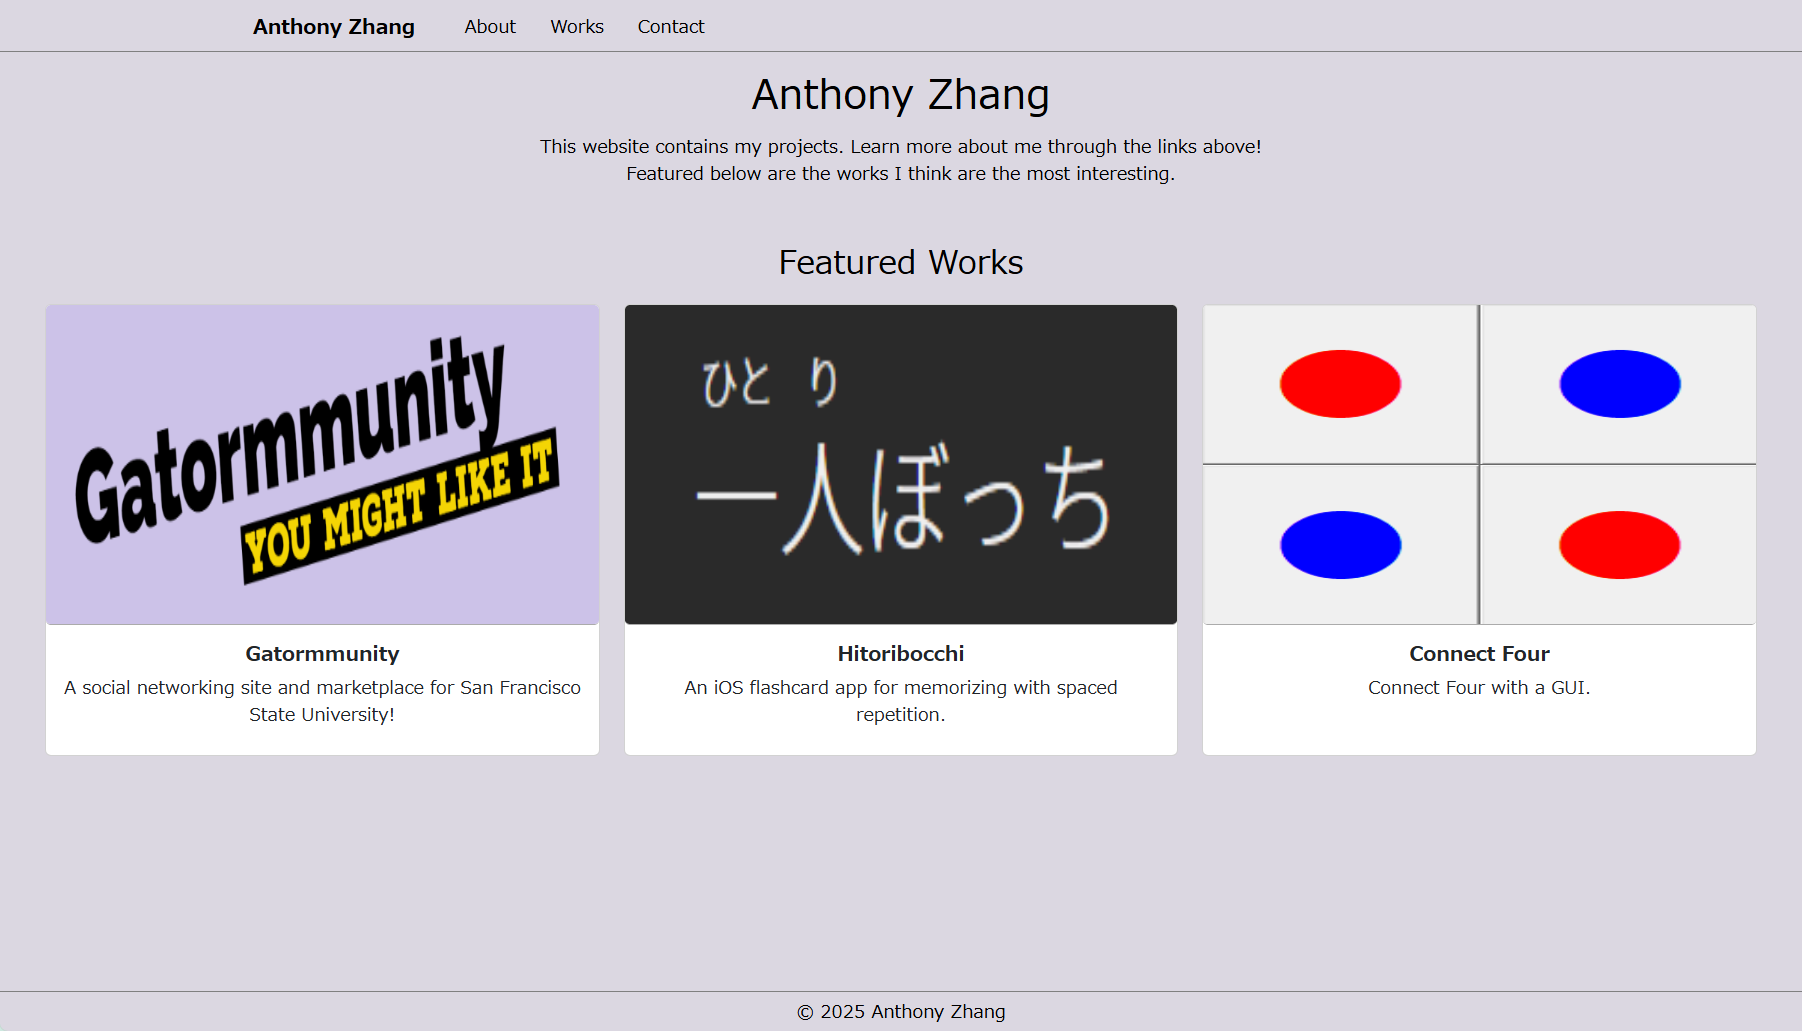
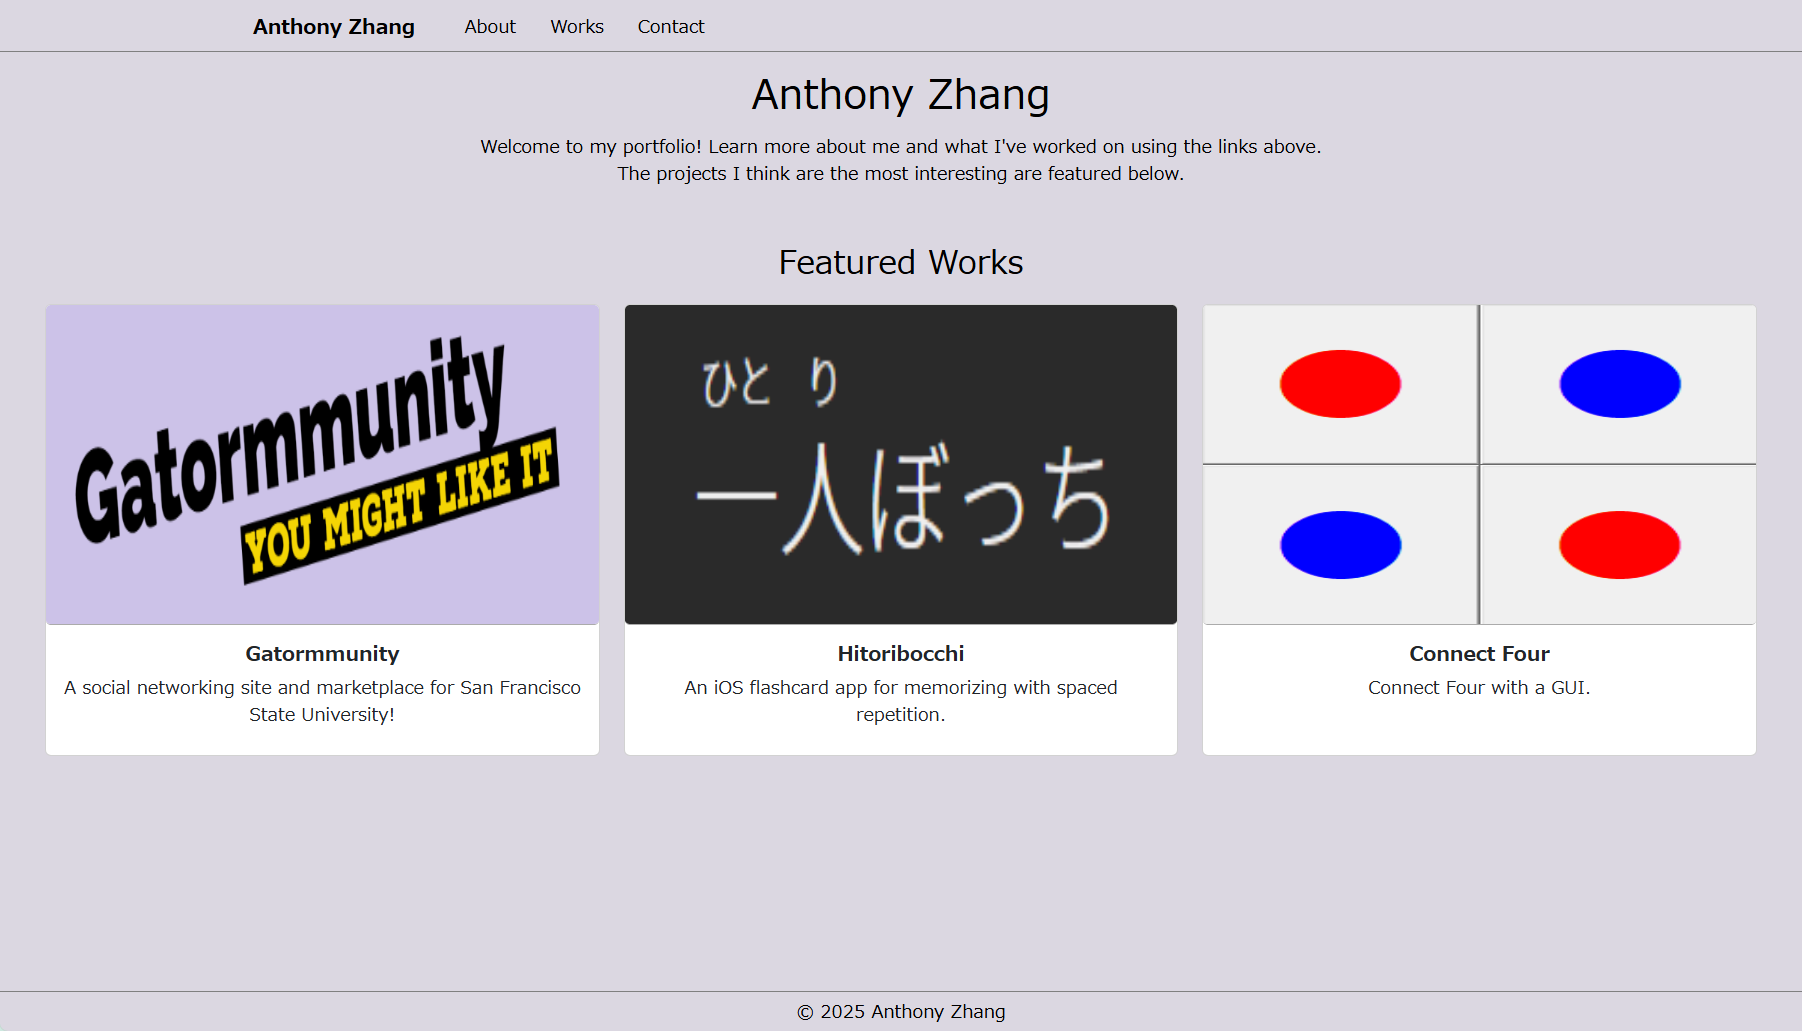
Reworded the Home page's description.

Changed region(s): [[0.2797, 0.1242, 0.7148, 0.1862]]

diff --git a/src/pages/Home.js b/src/pages/Home.js
@@ -26,8 +26,8 @@ export default function Home() {
     <div className='home-p page-content'>
       <h1 className='page-title'>Anthony Zhang</h1>
       <p>
-        This website contains my projects. Learn more about me through the links above!<br />
-        Featured below are the works I think are the most interesting.
+        Welcome to my portfolio! Learn more about me and what I've worked on using the links above.<br />
+        The projects I think are the most interesting are featured below.
       </p>
 
       <h2 className='featured-works'>Featured Works</h2>
